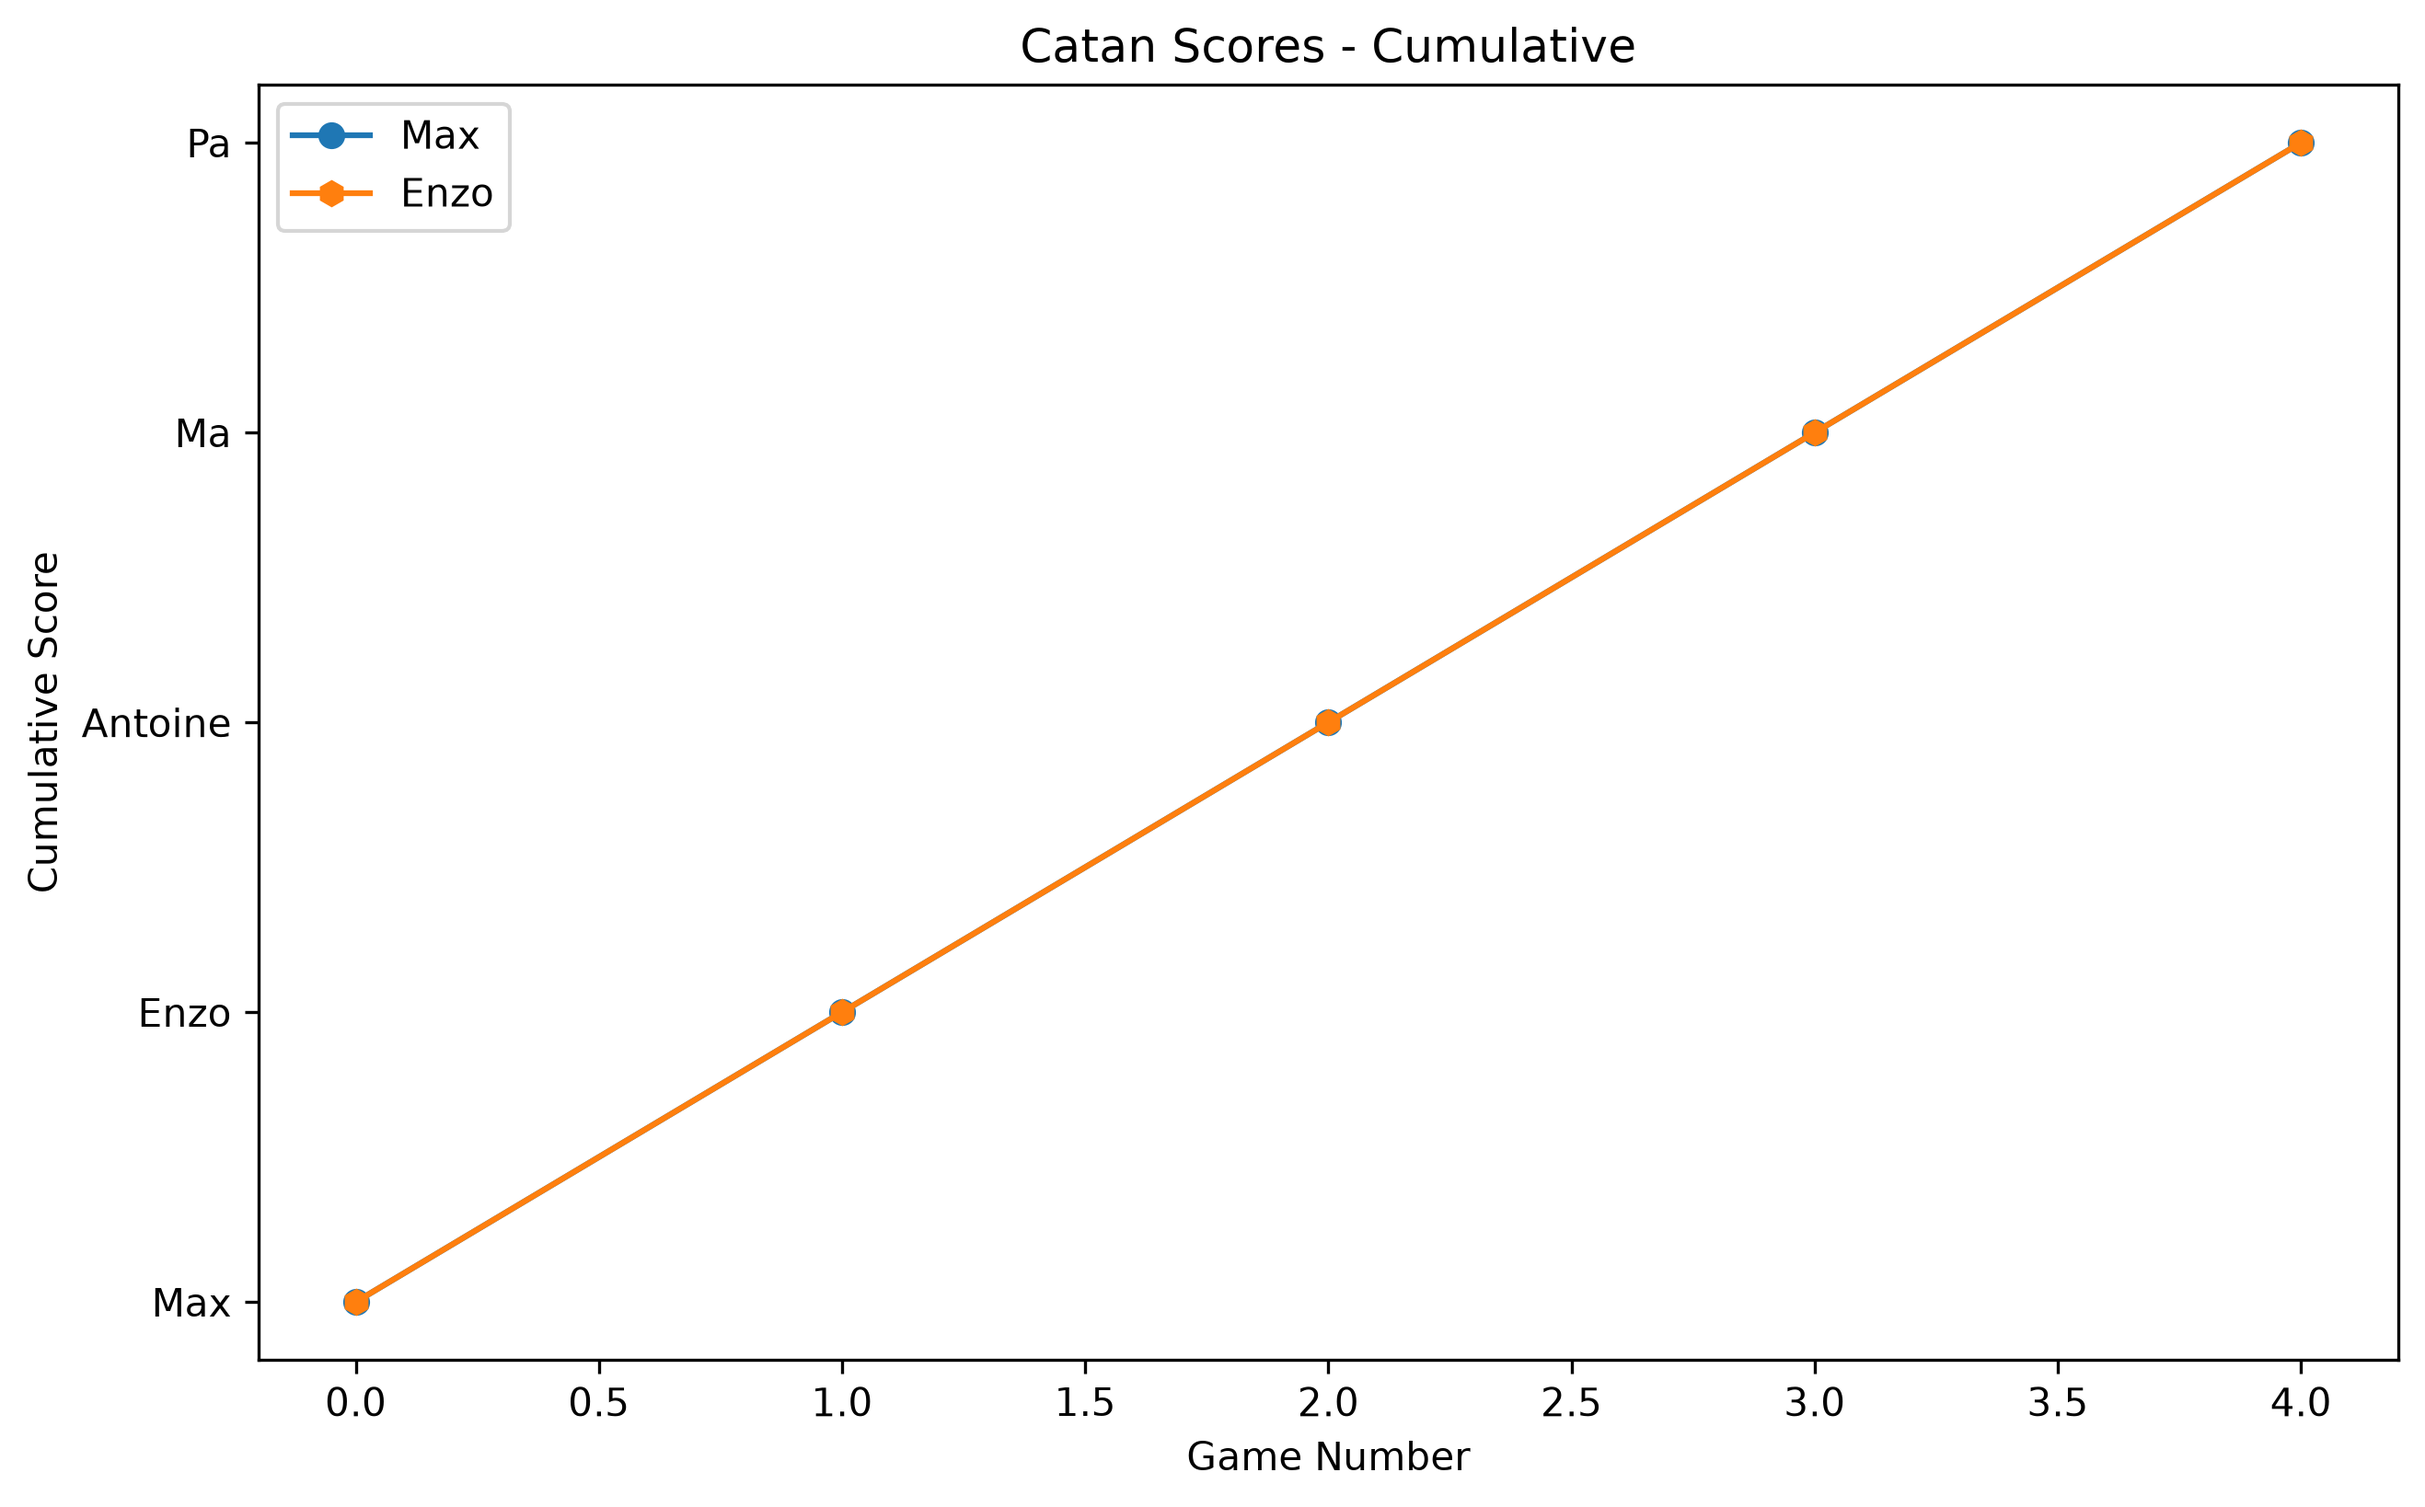
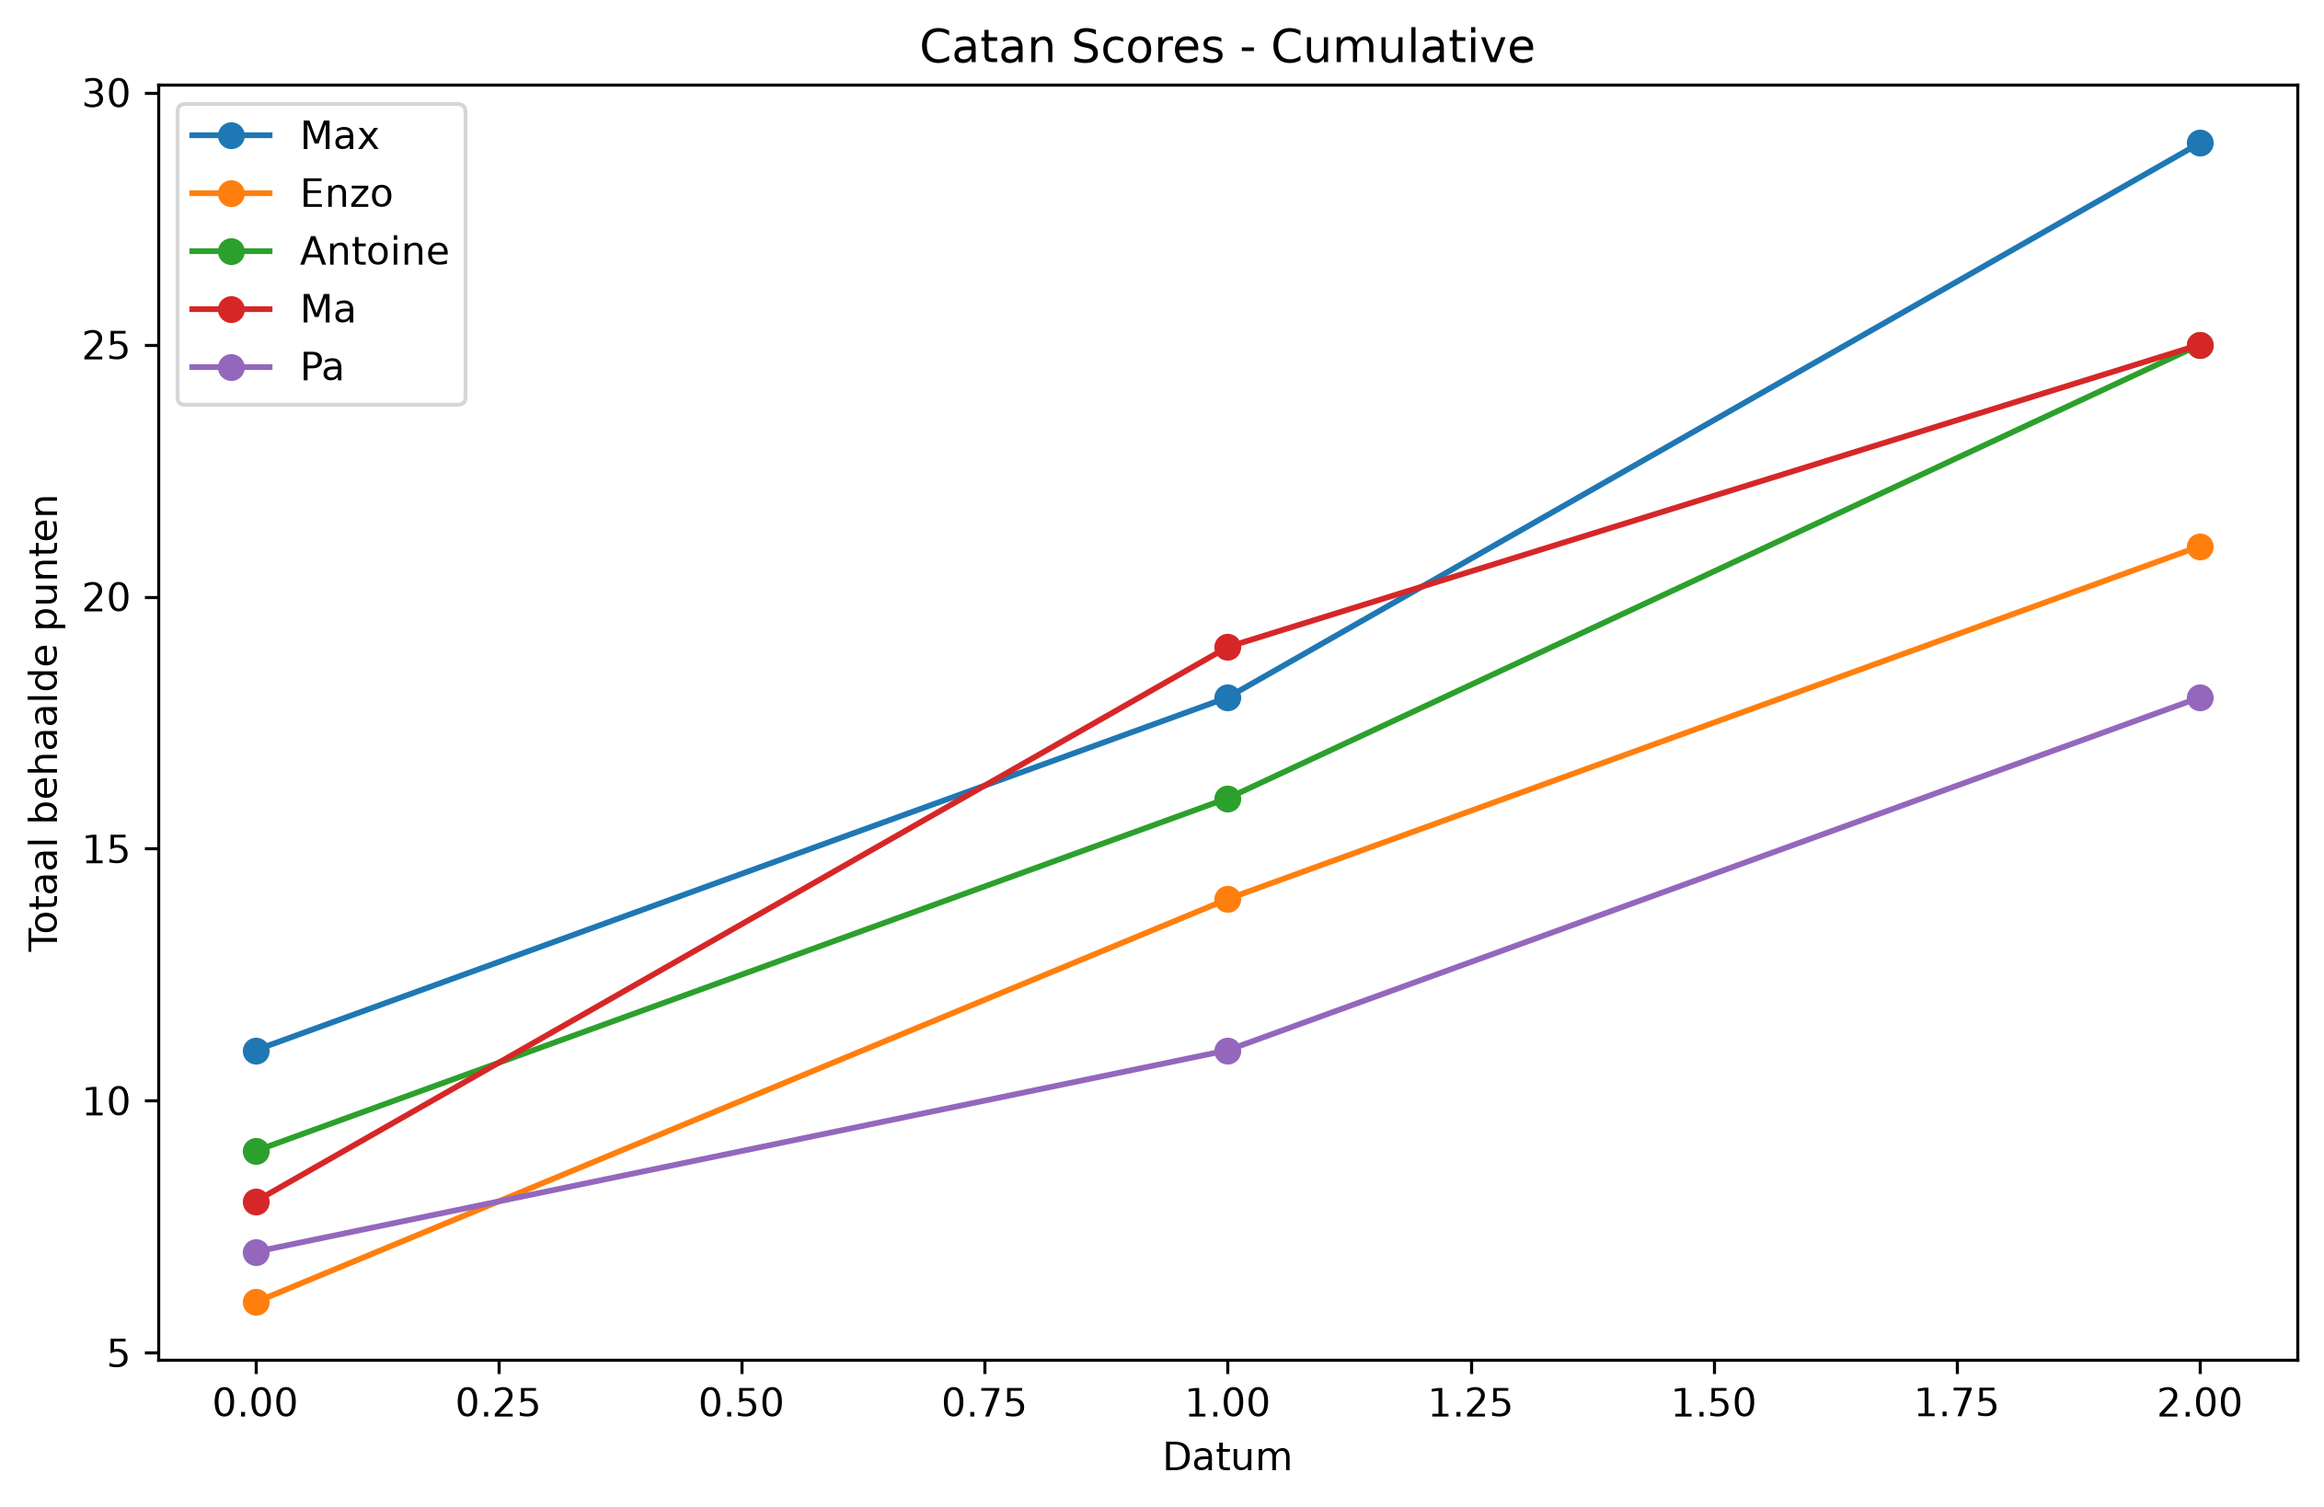
Refactor data processing script to improve cumulative score plotting and save updated graph

diff --git a/Data/Pullingdatafromxlsx.py b/Data/Pullingdatafromxlsx.py
@@ -4,39 +4,28 @@ from numpy import save
 import pandas as pd
 #import openpyxl
 
+#open path to the excel file
 excel_path = Path(__file__).resolve().with_name("Catan_ostuni.xlsx")
+#print("excel_path:", excel_path)
+#leest de hele file
 file = pd.read_excel(excel_path, sheet_name="Blad1", engine="openpyxl")
-print("excel_path:", excel_path)
-print("file:", file)
-
-#x = file["Max"].tolist() #Need to make it a index(.values) or list(.tolist()) from it
-#y = file["Enzo"].tolist()
-#print(x,y)
-#plt.plot(x, y, marker = 'o')
-#print(plt.plot(x, y, marker = 'o'))
-#plt.show()
+#print("file:", file)
 
 # Get all columns (except index/names)
 data = file[["Max", "Enzo", "Antoine", "Ma", "Pa"]]
+#data["Datum"] = pd.to_datetime(data["Datum"])  # Convert 'Datum' to datetime
 print("data:", data)
 
-# Plot all
-for column in data.columns:
-   plt.plot(data[column].cumsum(), label=column)
-   print(data[column].cumsum())
-
-# Calculate cumulative sum (running total)
-#y1_cumsum = 1.cumsum()
-#y2_cumsum = 2.cumsum()
-
-# Plot
+# Plot all cumulative scores
 plt.figure(figsize=(10, 6))
-plt.plot(data.columns, label="Max", marker='o')
-plt.plot(data.columns, label="Enzo", marker='h')
-plt.xlabel("Game Number")#verander naar datum
-plt.ylabel("Cumulative Score")
+for column in data.select_dtypes(include=['number']).columns:
+   plt.plot(data[column].cumsum(), label=column, marker='o')#Elke lijn een specifiek marker geven
+   #print(data[column].cumsum())
+plt.xlabel("Datum")#verander naar datum in het figuur zelf
+plt.ylabel("Totaal behaalde punten")
 plt.title("Catan Scores - Cumulative")
 plt.legend()
+
 #plt.grid(True)
 
 #save naar de Graphs map in de Data map
@@ -45,4 +34,5 @@ save_path = Path(__file__).resolve().parent / "Graphs"
 #save_path.mkdir(exist_ok=True) # To remove the error codes; it makes the map
 save_path = save_path / "catan_totalscores.png"
 plt.savefig(save_path, dpi=300, bbox_inches="tight")
+#plt.show() #FigureCanvassAgg is non-interactive dus word niet getoond.
 print("Plot saved as catan_totalscores.png in path:", save_path)
